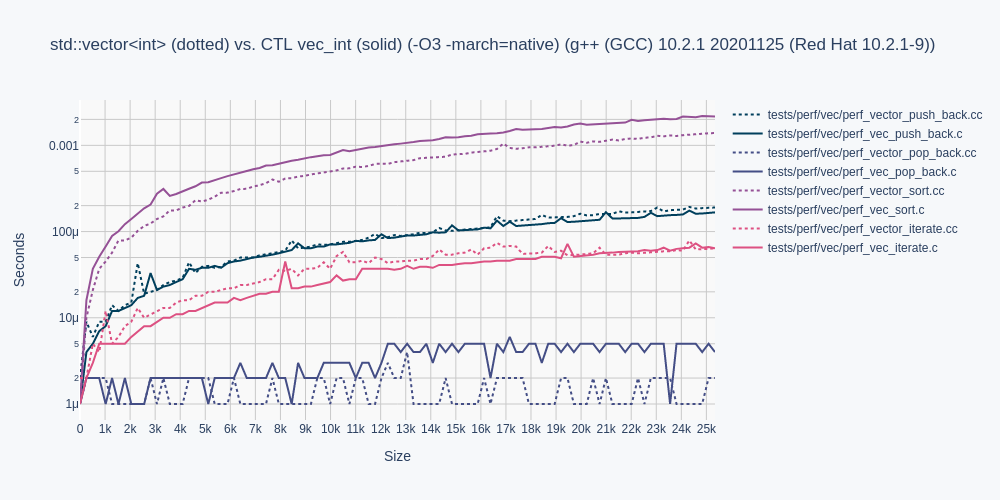
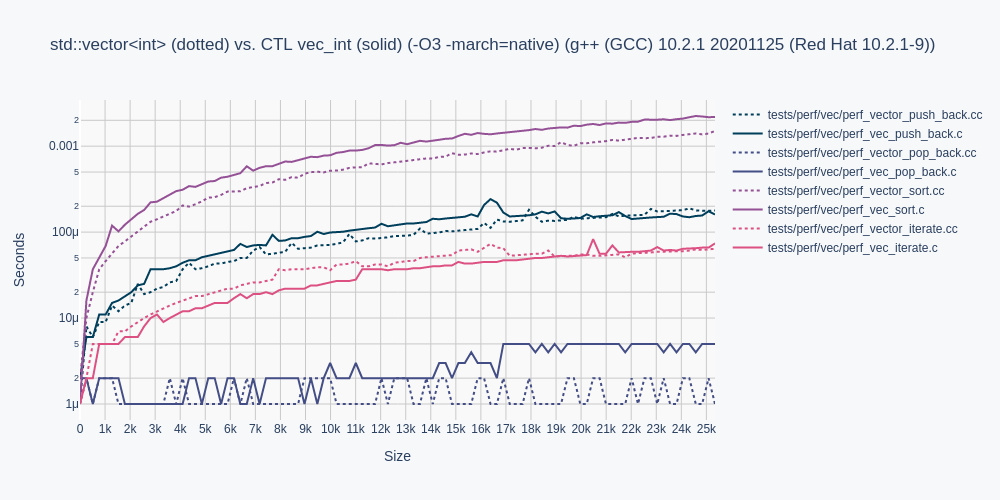
performance: don't free pod values
avoid a self-free check, which is always false.

Changed region(s): [[0.062, 0.21, 0.713, 0.81]]

diff --git a/ctl/deque.h b/ctl/deque.h
@@ -183,8 +183,10 @@ static inline void
 JOIN(A, set)(A* self, size_t index, T value)
 {
     T* ref = JOIN(A, at)(self, index);
+#ifndef POD
     if(self->free)
         self->free(ref);
+#endif
     *ref = value;
 }
 
@@ -235,11 +237,13 @@ static inline void
 JOIN(A, pop_front)(A* self)
 {
     B* page = *JOIN(A, first)(self);
+#ifndef POD
     if(self->free)
     {
         T* ref = &page->value[page->a];
         self->free(ref);
     }
+#endif
     page->a++;
     self->size--;
     if(page->a == page->b)
@@ -282,11 +286,13 @@ JOIN(A, pop_back)(A* self)
     B* page = *JOIN(A, last)(self);
     page->b--;
     self->size--;
+#ifndef POD
     if(self->free)
     {
         T* ref = &page->value[page->b];
         self->free(ref);
     }
+#endif
     if(page->b == page->a)
     {
         free(page);
@@ -299,8 +305,10 @@ JOIN(A, erase)(A* self, size_t index)
 {
     static T zero;
     JOIN(A, set)(self, index, zero);
+#ifndef POD
     void (*saved)(T*) = self->free;
     self->free = NULL;
+#endif
     if(index < self->size / 2)
     {
         for(size_t i = index; i > 0; i--)
@@ -313,7 +321,9 @@ JOIN(A, erase)(A* self, size_t index)
             *JOIN(A, at)(self, i) = *JOIN(A, at)(self, i + 1);
         JOIN(A, pop_back)(self);
     }
+#ifndef POD
     self->free = saved;
+#endif
 }
 
 static inline void
@@ -321,8 +331,10 @@ JOIN(A, insert)(A* self, size_t index, T value)
 {
     if(self->size > 0)
     {
+#ifndef POD
         void (*saved)(T*) = self->free;
         self->free = NULL;
+#endif
         if(index < self->size / 2)
         {
             JOIN(A, push_front)(self, *JOIN(A, at)(self, 0));
@@ -336,7 +348,9 @@ JOIN(A, insert)(A* self, size_t index, T value)
                 *JOIN(A, at)(self, i) = *JOIN(A, at)(self, i - 1);
         }
         *JOIN(A, at)(self, index) = value;
+#ifndef POD
         self->free = saved;
+#endif
     }
     else
         JOIN(A, push_back)(self, value);
@@ -381,9 +395,7 @@ JOIN(A, resize)(A* self, size_t size, T value)
             else
                 JOIN(A, push_back)(self, self->copy(&value));
     }
-    if(self->free)
-        self->free(&value);
-
+    FREE_VALUE(self, value);
 }
 
 static inline I*
@@ -473,14 +485,12 @@ JOIN(A, insert_count)(A* self, I* pos, size_t count, T value)
         assert (pos->index + count >= count || !"pos overflow");
         assert (self->size + count < JOIN(A, max_size)() || !"max_size overflow");
 #endif
-        if(self->free)
-            self->free(&value);
+        FREE_VALUE(self, value);
         return NULL;
     }
     for(size_t i = pos->index; i < count + pos->index; i++)
         JOIN(A, insert)(self, i, self->copy(&value));
-    if(self->free)
-        self->free(&value);
+    FREE_VALUE(self, value);
     return pos;
 }
 
@@ -490,8 +500,7 @@ JOIN(A, assign)(A* self, size_t size, T value)
     JOIN(A, resize)(self, size, self->copy(&value));
     for(size_t i = 0; i < size; i++)
         JOIN(A, set)(self, i, self->copy(&value));
-    if(self->free)
-        self->free(&value);
+    FREE_VALUE(self, value);
 }
 
 // including to

diff --git a/ctl/unordered_set.h b/ctl/unordered_set.h
@@ -386,8 +386,17 @@ JOIN(A, bucket_size)(A* self, size_t index)
 static inline void
 JOIN(A, _free_node)(A* self, B* n)
 {
+#ifndef POD
+# if defined(_ASSERT_H) && !defined(NDEBUG)
+    assert(self->free || !"no uset free without POD");
+# endif
     if(self->free)
         self->free(&n->value);
+#else
+# if defined(_ASSERT_H) && !defined(NDEBUG)
+    assert(!self->free || !"uset free with POD");
+# endif
+#endif
     free(n);
     self->size--;
 }
@@ -569,8 +578,7 @@ JOIN(A, insert)(A* self, T value)
 {
     if(JOIN(A, find)(self, value))
     {
-        if(self->free)
-            self->free(&value);
+        FREE_VALUE(self, value);
     }
     else
     {
@@ -603,8 +611,7 @@ JOIN(A, insert_found)(A* self, T value, int* foundp)
     if(JOIN(A, find)(self, value))
     {
         *foundp = 1;
-        if(self->free)
-            self->free(&value);
+        FREE_VALUE(self, value);
         return;
     }
     if(JOIN(A, empty)(self))
@@ -698,8 +705,7 @@ JOIN(A, count)(A* self, T value)
         if(self->equal(it.ref, &value))
             count++;
     }
-    if(self->free)
-        self->free(&value);
+    FREE_VALUE(self, value);
     return count;
 }
 
@@ -718,14 +724,12 @@ JOIN(A, contains)(A* self, T value)
 #endif
         if(self->equal(it.ref, &value))
         {
-            if(self->free)
-                self->free(&value);
+            FREE_VALUE(self, value);
             // TODO: the popular move-to-front strategy
             return true;
         }
     }
-    if(self->free)
-        self->free(&value);
+    FREE_VALUE(self, value);
     return false;
 }
 

diff --git a/ctl/list.h b/ctl/list.h
@@ -232,8 +232,7 @@ static inline void
 JOIN(A, erase)(A* self, B* node)
 {
     JOIN(A, disconnect)(self, node);
-    if(self->free)
-        self->free(&node->value);
+    FREE_VALUE(self, node->value);
     free(node);
 }
 
@@ -317,8 +316,7 @@ JOIN(A, resize)(A* self, size_t size, T value)
             (size < self->size)
                 ? JOIN(A, pop_back)(self)
                 : JOIN(A, push_back)(self, self->copy(&value));
-    if(self->free)
-        self->free(&value);
+    FREE_VALUE(self, value);
 }
 
 static inline A
@@ -337,13 +335,14 @@ JOIN(A, assign)(A* self, size_t size, T value)
     size_t i = 0;
     foreach(A, self, it)
     {
+#ifndef POD
         if(self->free)
             self->free(it.ref);
+#endif
         *it.ref = self->copy(&value);
         i++;
     }
-    if(self->free)
-        self->free(&value);
+    FREE_VALUE(self, value);
 }
 
 static inline void

diff --git a/tests/func/test_c11.c b/tests/func/test_c11.c
@@ -35,9 +35,6 @@ typedef struct {
   int value;
 } charint;
 
-#undef POD
-#define T charint
-
 static inline size_t
 charint_hash(charint *a) {
   return FNV1a(a->key);
@@ -65,6 +62,8 @@ charint_copy(charint *self) {
   return copy;
 }
 
+#undef POD
+#define T charint
 #include <ctl/unordered_map.h>
 
 #undef POD
@@ -279,8 +278,9 @@ main(void)
         char c_char[36];
         for (int i=0; i<1000; i++) {
           snprintf(c_char, 36, "%c%d", 48 + (rand() % 74), rand());
+          charint copy = charint_copy(&(charint){ c_char, i });
           //str s = (str){.value = c_char};
-          umap_charint_insert(&a, charint_copy(&(charint){ c_char, i }));
+          umap_charint_insert(&a, copy);
         }
         foreach(umap_charint, &a, it) { strcpy (c_char, it.ref->key); }
         printf("last key \"%s\", ", c_char);

diff --git a/ctl/vector.h b/ctl/vector.h
@@ -145,8 +145,10 @@ static inline void
 JOIN(A, set)(A* self, size_t index, T value)
 {
     T* ref = JOIN(A, at)(self, index);
+#ifndef POD
     if(self->free)
         self->free(ref);
+#endif
     *ref = value;
 }
 
@@ -303,8 +305,10 @@ JOIN(A, resize)(A* self, size_t size, T value)
         for(size_t i = 0; self->size < size; i++)
             JOIN(A, push_back)(self, self->copy(&value));
     }
+#ifndef POD
     if(self->free)
         self->free(&value);
+#endif
 }
 
 static inline void
@@ -313,8 +317,10 @@ JOIN(A, assign)(A* self, size_t count, T value)
     JOIN(A, resize)(self, count, self->copy(&value));
     for(size_t i = 0; i < count; i++)
         JOIN(A, set)(self, i, self->copy(&value));
+#ifndef POD
     if(self->free)
         self->free(&value);
+#endif
 }
 
 static inline void

diff --git a/ctl/ctl.h b/ctl/ctl.h
@@ -3,7 +3,7 @@
 #ifndef __CTL_H__
 #define __CTL_H__
 
-#define CTL_VERSION 202101
+#define CTL_VERSION 202101L
 
 #include <stdlib.h>
 #include <stdint.h>
@@ -37,6 +37,14 @@
 #define foreach(a, b, c) for(JOIN(a, it) c = JOIN(JOIN(a, it), each) (b); !c.done; c.step(&c))
 
 #define len(a) (sizeof(a) / sizeof(*(a)))
+
+#ifndef POD
+#define FREE_VALUE(self, value) \
+    if(self->free)              \
+        self->free(&(value))
+#else
+#define FREE_VALUE(self, value)
+#endif
 
 #ifdef DEBUG
 #define LOG(...) fprintf(stderr, __VA_ARGS__)

diff --git a/ctl/string.h b/ctl/string.h
@@ -9,14 +9,16 @@
 
 #define CTL_STR
 #define vec_char str
+#define HOLD
 #define POD
-#define NOT_INTEGRAL
 #define T char
 #define MUST_ALIGN_16(T) (sizeof(T) == sizeof(char))
 #define str_init str___INIT
 #define str_equal str___EQUAL
 #define str_find str___FIND
+
 #include <ctl/vector.h>
+
 #undef str_init
 #undef str_equal
 #undef str_find
@@ -220,7 +222,6 @@ str_equal(str* self, str* other)
 #ifndef HOLD
 #undef CTL_STR
 #undef POD
-#undef NOT_INTEGRAL
 #undef vec_char
 #undef T
 #else

diff --git a/ctl/set.h b/ctl/set.h
@@ -142,8 +142,12 @@ JOIN(A, init)(int _compare(T*, T*))
 static inline void
 JOIN(A, free_node)(A* self, B* node)
 {
+#ifndef POD
     if(self->free)
         self->free(&node->key);
+#else
+    (void) self;
+#endif
     free(node);
 }
 
